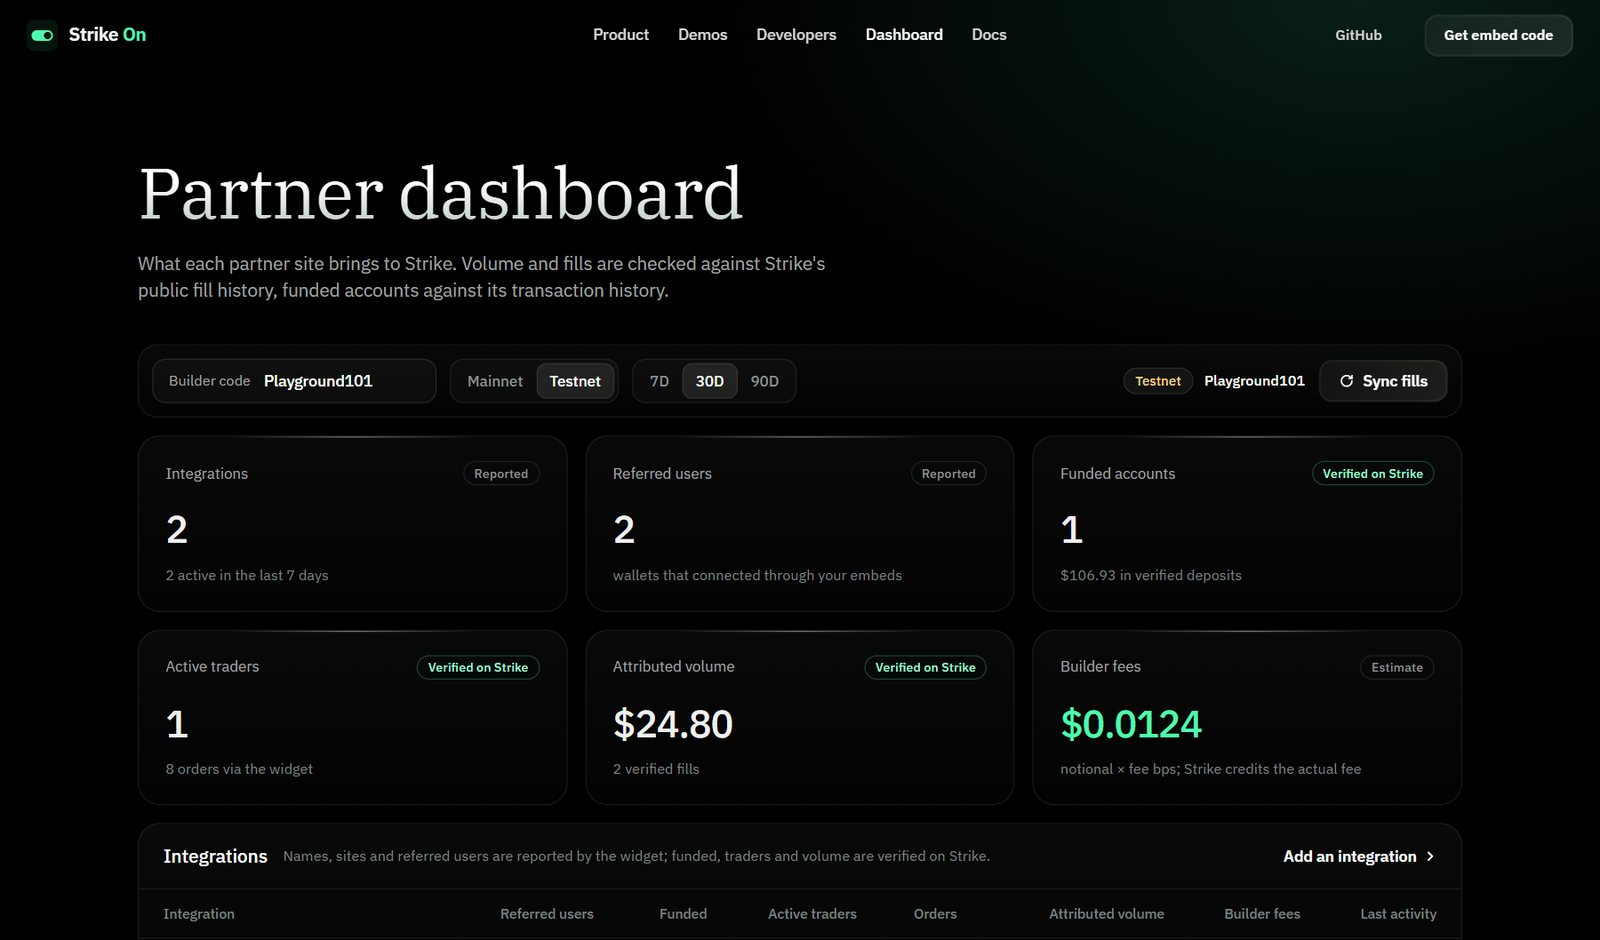
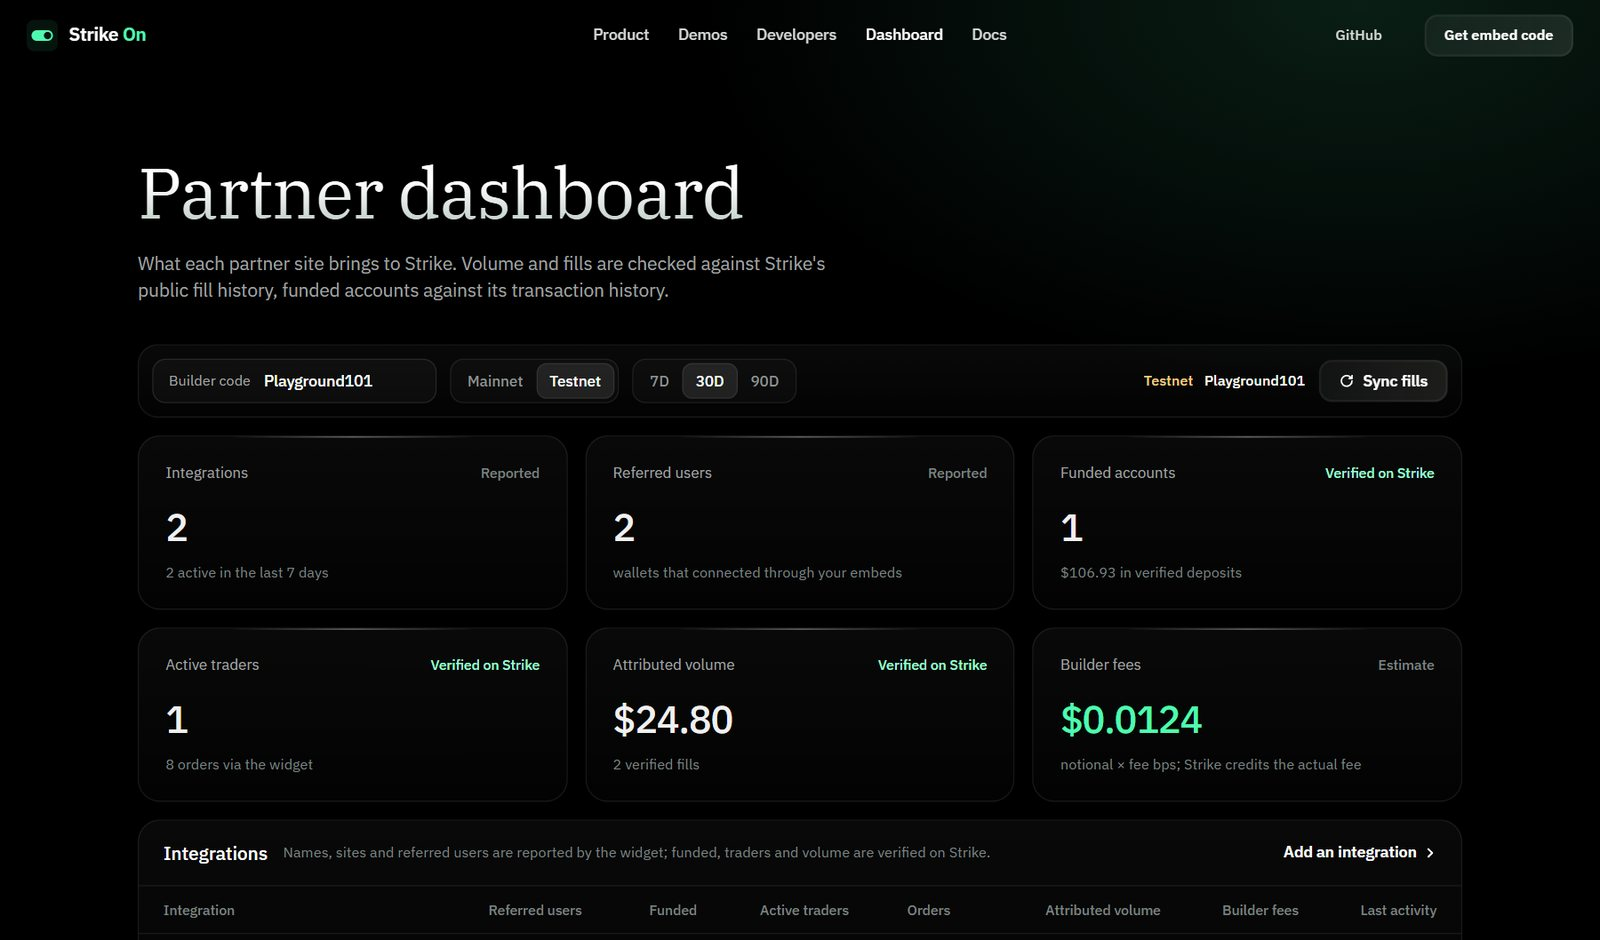
License the project under PolyForm Strict 1.0.0 and make small dashboard and demo layout fixes.

diff --git a/apps/dashboard/index.html b/apps/dashboard/index.html
@@ -35,8 +35,8 @@
   .kpi .v { margin-top: 14px; font-size: 34px; font-weight: 500; letter-spacing: -0.02em; font-variant-numeric: tabular-nums; white-space: nowrap; overflow: hidden; text-overflow: ellipsis; }
   .kpi .v.pos { color: var(--mint); }
   .kpi .s { margin-top: 6px; font-size: 13px; color: #7d8281; white-space: nowrap; overflow: hidden; text-overflow: ellipsis; }
-  .src-tag { flex: none; display: inline-flex; align-items: center; height: 22px; padding: 0 9px; border-radius: 999px; font-size: 11.5px; font-weight: 500; color: #8e9392; border: 1px solid rgba(255, 255, 255, .1); }
-  .src-tag.ver { color: #9effd2; border-color: rgba(var(--mint-rgb), .25); }
+  .src-tag { flex: none; font-size: 12.5px; font-weight: 500; color: #7d8281; }
+  .src-tag.ver { color: #9effd2; }
 
   section.card { padding: 0; }
   .card { margin-top: 16px; border-radius: 20px; border: 1px solid var(--hair); background: var(--card); overflow: hidden; }
@@ -56,14 +56,14 @@
   .empty a { color: #fff; }
   .p-name { font-weight: 500; }
   .p-site { font-size: 12.5px; color: #7d8281; margin-top: 2px; }
-  .state { display: inline-flex; align-items: center; height: 22px; padding: 0 9px; border-radius: 999px; font-size: 11.5px; font-weight: 500; color: #8e9392; border: 1px solid rgba(255, 255, 255, .1); margin-left: 10px; }
-  .state.on { color: #9effd2; border-color: rgba(var(--mint-rgb), .25); }
+  .state { font-size: 12.5px; font-weight: 500; color: #7d8281; margin-left: 12px; }
+  .state.on { color: #9effd2; }
   .share { width: 72px; height: 5px; border-radius: 3px; background: rgba(255, 255, 255, .07); overflow: hidden; display: inline-block; }
   .share span { display: block; height: 100%; background: linear-gradient(90deg, #1aa673, var(--mint)); }
-  .ev { display: inline-flex; align-items: center; height: 24px; padding: 0 10px; border-radius: 999px; font-size: 12px; font-weight: 500; border: 1px solid rgba(255, 255, 255, .1); color: #cfd3d2; text-transform: capitalize; }
+  .ev { font-size: 13.5px; font-weight: 500; color: #cfd3d2; text-transform: capitalize; }
   .ev.order { color: #9effd2; } .ev.deposit { color: #f2cf86; } .ev.rejected { color: #fda4b4; }
-  .rep { font-size: 11px; font-weight: 500; color: #7d8281; border: 1px solid rgba(255, 255, 255, .1); border-radius: 999px; padding: 1px 7px; margin-left: 8px; white-space: nowrap; }
-  .rep.ver { color: #9effd2; border-color: rgba(var(--mint-rgb), .25); }
+  .rep { font-size: 12px; font-weight: 500; color: #7d8281; margin-left: 10px; white-space: nowrap; }
+  .rep.ver { color: #9effd2; }
 
   .tab { border: 0; background: none; }
   .chart { position: relative; height: 280px; padding: 12px 16px 6px; }
@@ -196,7 +196,7 @@
     <div><h4>Product</h4><a class="f" href="../#embed">Trade ticket</a><a class="f" href="../#app">App layout</a><a class="f" href="https://github.com/LuPlayground/strike-everywhere#sdk-only">TypeScript SDK</a><a class="f" href="./">Partner dashboard</a></div>
     <div><h4>Demos</h4><a class="f" href="../demo/wallet/">Wallet</a><a class="f" href="../demo/portfolio/">Portfolio tracker</a></div>
     <div><h4>Developers</h4><a class="f" href="../developers/">Configurator</a><a class="f" href="https://github.com/LuPlayground/strike-everywhere/blob/main/docs/INTEGRATION.md">Integration guide</a><a class="f" href="https://github.com/LuPlayground/strike-everywhere/blob/main/docs/SECURITY.md">Security</a></div>
-    <div><h4>Project</h4><a class="f" href="https://github.com/LuPlayground/strike-everywhere">GitHub</a><a class="f" href="https://docs.strikefinance.org">Strike docs</a><a class="f" href="https://github.com/LuPlayground/strike-everywhere/blob/main/LICENSE">MIT license</a></div>
+    <div><h4>Project</h4><a class="f" href="https://github.com/LuPlayground/strike-everywhere">GitHub</a><a class="f" href="https://docs.strikefinance.org">Strike docs</a><a class="f" href="https://github.com/LuPlayground/strike-everywhere/blob/main/LICENSE">License</a></div>
   </div>
 </footer>
 
@@ -417,6 +417,7 @@
     $("viewSeg").querySelectorAll("button").forEach(function (x) { x.classList.toggle("on", x === b); });
     var table = b.dataset.v === "table";
     $("chart").hidden = table; $("dailyTable").hidden = !table;
+    $("metricTabs").style.visibility = table ? "hidden" : "";
     if (!table && last) drawChart(last);
   });
 

diff --git a/apps/demo-portfolio/index.html b/apps/demo-portfolio/index.html
@@ -80,10 +80,10 @@
   .hedge .go:hover { filter: brightness(1.08); }
   .risk { padding: 14px 22px; border-top: 1px solid var(--t-line); color: var(--t-muted); font-size: 12.5px; line-height: 1.5; }
 
-  .side { position: sticky; top: 84px; display: grid; gap: 10px; }
+  .side { display: grid; gap: 10px; }
   .side .lbl { display: flex; align-items: center; justify-content: space-between; padding: 0 4px; font-size: 13px; color: var(--t-muted); }
   .side .lbl b { color: var(--t-soft); font-weight: 600; }
-  .panel-frame { height: 860px; border-radius: 22px; overflow: hidden; border: 1px solid var(--t-line); background: var(--t-card); box-shadow: 0 30px 80px rgba(0, 0, 0, .45); }
+  .panel-frame { height: 1180px; border-radius: 22px; overflow: hidden; border: 1px solid var(--t-line); background: var(--t-card); box-shadow: 0 30px 80px rgba(0, 0, 0, .45); }
   .panel-frame strike-trade { display: block; height: 100%; --strike-bg: #11131f; --strike-card: #171a2a; --strike-card-2: #1f2336; --strike-sheet: #161929; --strike-line: rgba(255, 255, 255, .07); --strike-line-2: rgba(255, 255, 255, .12); --strike-text: #eef0ff; --strike-soft: #c9cce2; --strike-muted: #8a8fae; --strike-faint: #61667f; --strike-font: Inter, ui-sans-serif, system-ui, sans-serif; }
   .hedge .note { margin-top: 8px; font-size: 12.5px; color: var(--t-muted); }
 

diff --git a/apps/developers/index.html b/apps/developers/index.html
@@ -206,7 +206,7 @@
     <div><h4>Product</h4><a class="f" href="../#embed">Trade ticket</a><a class="f" href="../#app">App layout</a><a class="f" href="https://github.com/LuPlayground/strike-everywhere#sdk-only">TypeScript SDK</a><a class="f" href="../dashboard/">Partner dashboard</a></div>
     <div><h4>Demos</h4><a class="f" href="../demo/wallet/">Wallet</a><a class="f" href="../demo/portfolio/">Portfolio tracker</a></div>
     <div><h4>Developers</h4><a class="f" href="./">Configurator</a><a class="f" href="https://github.com/LuPlayground/strike-everywhere/blob/main/docs/INTEGRATION.md">Integration guide</a><a class="f" href="https://github.com/LuPlayground/strike-everywhere/blob/main/docs/SECURITY.md">Security</a></div>
-    <div><h4>Project</h4><a class="f" href="https://github.com/LuPlayground/strike-everywhere">GitHub</a><a class="f" href="https://docs.strikefinance.org">Strike docs</a><a class="f" href="https://github.com/LuPlayground/strike-everywhere/blob/main/LICENSE">MIT license</a></div>
+    <div><h4>Project</h4><a class="f" href="https://github.com/LuPlayground/strike-everywhere">GitHub</a><a class="f" href="https://docs.strikefinance.org">Strike docs</a><a class="f" href="https://github.com/LuPlayground/strike-everywhere/blob/main/LICENSE">License</a></div>
   </div>
 </footer>
 

diff --git a/apps/landing/index.html b/apps/landing/index.html
@@ -415,7 +415,7 @@
     <div><h4>Product</h4><a class="f" href="#embed">Trade ticket</a><a class="f" href="#app">App layout</a><a class="f" href="https://github.com/LuPlayground/strike-everywhere#sdk-only">TypeScript SDK</a><a class="f" href="dashboard/">Partner dashboard</a></div>
     <div><h4>Demos</h4><a class="f" href="demo/wallet/">Wallet</a><a class="f" href="demo/portfolio/">Portfolio tracker</a></div>
     <div><h4>Developers</h4><a class="f" href="developers/">Configurator</a><a class="f" href="https://github.com/LuPlayground/strike-everywhere/blob/main/docs/INTEGRATION.md">Integration guide</a><a class="f" href="https://github.com/LuPlayground/strike-everywhere/blob/main/docs/SECURITY.md">Security</a></div>
-    <div><h4>Project</h4><a class="f" href="https://github.com/LuPlayground/strike-everywhere">GitHub</a><a class="f" href="https://docs.strikefinance.org">Strike docs</a><a class="f" href="https://github.com/LuPlayground/strike-everywhere/blob/main/LICENSE">MIT license</a></div>
+    <div><h4>Project</h4><a class="f" href="https://github.com/LuPlayground/strike-everywhere">GitHub</a><a class="f" href="https://docs.strikefinance.org">Strike docs</a><a class="f" href="https://github.com/LuPlayground/strike-everywhere/blob/main/LICENSE">License</a></div>
   </div>
 </footer>
 

diff --git a/apps/demo-wallet/index.html b/apps/demo-wallet/index.html
@@ -39,7 +39,7 @@
   .wl-search { flex: 1; max-width: 420px; display: flex; align-items: center; gap: 8px; height: 38px; padding: 0 14px; border-radius: 12px; background: var(--w-panel-2); color: var(--w-muted); font-size: 14px; }
   .wl-search input { flex: 1; min-width: 0; background: none; border: 0; outline: none; color: var(--w-ink); font: inherit; }
   .wl-sp { flex: 1; }
-  .wl-net { display: inline-flex; align-items: center; height: 24px; font-size: 12px; font-weight: 500; padding: 0 10px; border-radius: 999px; background: rgba(255,255,255,.05); border: 1px solid rgba(255,255,255,.1); color: #f2cf86; white-space: nowrap; }
+  .wl-net { font-size: 13px; font-weight: 500; color: #f2cf86; white-space: nowrap; }
   .wl-net.main { color: #9effd2; }
   .wl-view { display: flex; padding: 3px; border-radius: 10px; background: var(--w-panel-2); }
   .wl-view button { height: 30px; padding: 0 12px; border-radius: 8px; font-size: 13px; font-weight: 600; color: var(--w-muted); display: inline-flex; align-items: center; gap: 6px; }

diff --git a/apps/landing/assets/theme.css b/apps/landing/assets/theme.css
@@ -87,7 +87,7 @@ button, input, select { font: inherit; color: inherit; }
 .se-nav .btn-mint:hover { transform: none; filter: none; background-color: rgba(236, 255, 246, .92); color: #04120c; box-shadow: 0 0 4px rgba(var(--mint-rgb), .10), 0 1px 14px rgba(var(--mint-rgb), .22), 0 3px 32px rgba(var(--mint-rgb), .30); }
 .se-nav .btn-ghost { height: 38px; padding: 0 10px; background: none; border: 0; box-shadow: none; color: #d6d8d8; font-weight: 500; }
 .se-nav .btn-ghost:hover { background: none; color: #fff; }
-.net-badge { display: inline-flex; align-items: center; height: 24px; padding: 0 10px; border-radius: 999px; font-size: 12px; font-weight: 500; color: #f2cf86; background: rgba(255, 255, 255, .05); border: 1px solid rgba(255, 255, 255, .1); white-space: nowrap; }
+.net-badge { font-size: 13px; font-weight: 500; color: #f2cf86; white-space: nowrap; }
 .net-badge.main { color: #9effd2; }
 
 .seg { display: inline-flex; background: var(--raised); border-radius: var(--radius); padding: 2px; }

diff --git a/packages/widget/src/app/styles.ts b/packages/widget/src/app/styles.ts
@@ -425,8 +425,10 @@ a.pa-btn.wide { margin: 8px 0 0; }
 .pd-foot .dot.test { background: var(--pa-gold); }
 .pd-foot .pa-net { color: var(--pa-muted); }
 
-.pd.pp { display: flex; flex-direction: column; overflow-y: auto; scrollbar-width: none; }
-.pd.pp::-webkit-scrollbar { display: none; }
+.pd.pp { display: flex; flex-direction: column; overflow-y: auto; scrollbar-width: thin; scrollbar-color: rgba(255,255,255,.18) transparent; }
+.pd.pp::-webkit-scrollbar { width: 8px; }
+.pd.pp::-webkit-scrollbar-thumb { background: rgba(255,255,255,.16); border-radius: 8px; border: 2px solid transparent; background-clip: padding-box; }
+.pd.pp::-webkit-scrollbar-track { background: transparent; }
 .pd.pp > * { flex: none; }
 .pp-head { gap: 12px; }
 .pp-head .sp { flex: 1; }

diff --git a/README.md b/README.md
@@ -138,4 +138,6 @@ The git history shows all dates.
 
 An independent project built on Strike's public Builder API. Not affiliated with or endorsed by Strike Finance. Perpetual futures are leveraged and risky, and Strike is unavailable in restricted regions (see strikefinance.org/restricted).
 
-MIT licensed.
+## License
+
+Source-available under the [PolyForm Strict License 1.0.0](LICENSE): you can read the code and use it for noncommercial purposes, but not redistribute or modify it. Commercial use (for example embedding it in a commercial wallet, dApp or service) needs a separate license from the author: contact [LuPlayground](https://github.com/LuPlayground) on GitHub.
